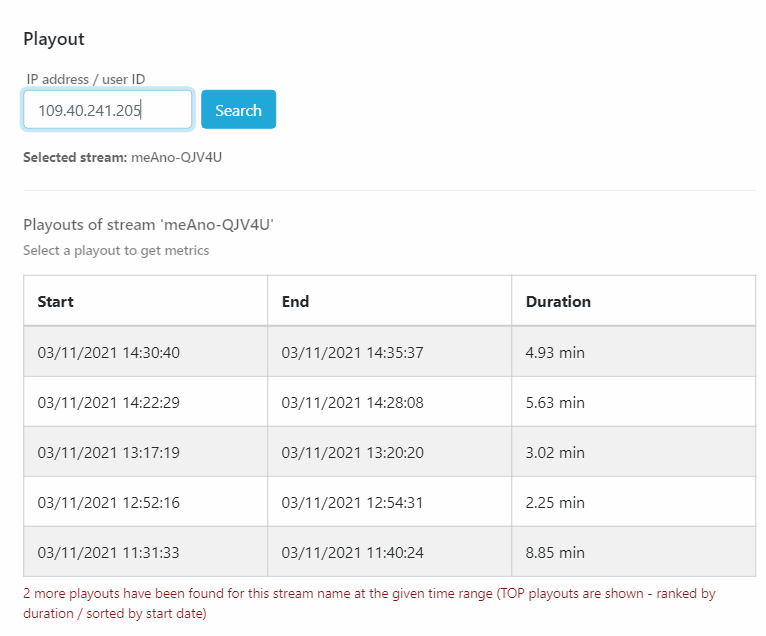
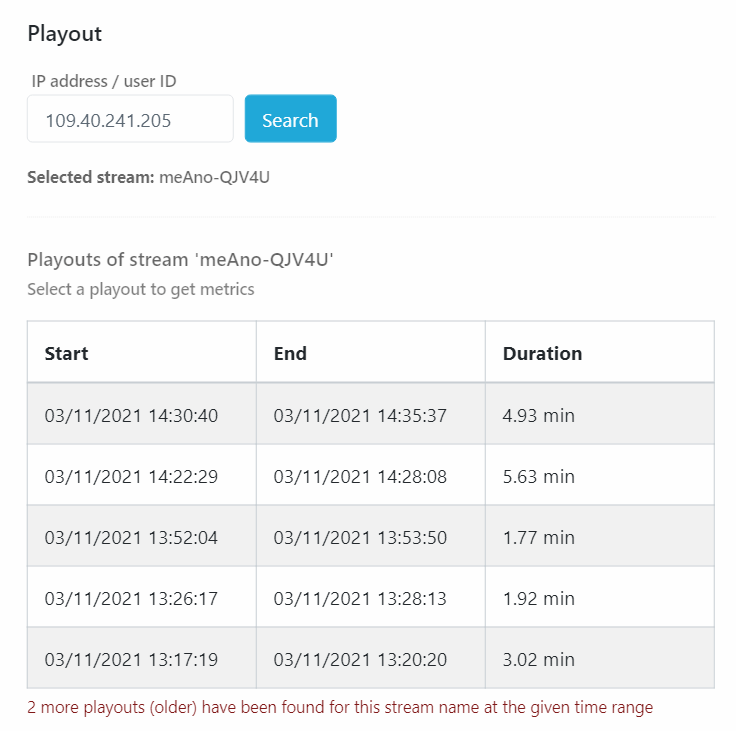
fixed typos and added pictures

diff --git a/docs/cloud/troubleshooting.md b/docs/cloud/troubleshooting.md
@@ -22,13 +22,15 @@ The time picker declares the time period in which you will query for available m
 
 ### Copy URL Button
 
-The Copy URL button copies the exact options regarding the affected playout and ingest that you are currently want to investigate from the URL. Pasting the information into a support ticket helps to synchronize our support team with your issue and accelerates the solution process.    
+The Copy URL button copies the exact options regarding the affected playout and ingest that you are currently want to investigate from the URL. Pasting the information into a support ticket helps to synchronize our support team with your issue and accelerates the solution process.
+
+![Screenshot](/img/cloud/analytics/troubleshooting/copy_URL.png)
 
 ### Playouts
 
-After selecting a specific time period you are asked to enter an IP address or an user ID to access playout statistics about all streams that this user retrieved. You will then be able to select one out of the 5 newest playouts based on their start date. To view more than these 5 results you need to adjust the time range accordingly.
+After selecting a specific time period you are asked to enter an IP address or an user ID to access playout statistics about all streams that this user retrieved. You will then be able to select one out of the 5 newest playouts based on their start date. To view more than these 5 results you need to adjust the time range accordingly. We also implemented support for current running playouts.
 
-> **Note**, that shown playouts with no information are due to no enabled metrics option, which are based on the player metrics. We also implemented support for current running playouts. 
+> **Note**, only playouts that have metric option enabled are visible, which are based on the player metrics.  
     
    - Search by IP
    The IP address which requested access to a stream.
@@ -36,27 +38,29 @@ After selecting a specific time period you are asked to enter an IP address or a
    - Search by UserID
    The unique user ID of your customer. 
 
-> **Note**, to make this work with UIDs, you have to assign IDs to your users beforehand and also transmit that to the [player API](https://docs.nanocosmos.de/docs/nanoplayer/nanoplayer_api#nanoplayerid--codestringcode).
+> **Note**, to make this work with UIDs, you have to assign IDs to your users beforehand and also transmit that to the [player API](https://docs.nanocosmos.de/docs/nanoplayer/nanoplayer_player_metrics/#how-to-use).
 
 ![Screenshot](/img/cloud/analytics/troubleshooting/playouts.png)
     
 #### Navigation
 
-If there are statistics about the valid IP / UID within the stated time period, you will have a selection of streams that this user entered. Select the desired streamname and you will see a list of all playouts that user had in combination with the selected streamname. After you selected a playout you can access meta data information and also more detailed statistics below. Define the time interval with the slider to zoom into streams with a longer duration or to focus on specific parts of the stream. At this point you can synchronize with the corresponding ingest data of the playout on the right side.
-
-> **Note**, if an user reloads the page of a stream, it will be accounted as a new playout. 
-
-> **Note**, If you set the visible timerange to under 5 minutes, you switch from data aggregation mode into raw mode. Therefore you will get exact datapoints at the given time. 
+If there are statistics about the valid IP / UID within the stated time period, you will have a selection of streams that this user entered. Select the desired stream name and you will see a list of all playouts that user had in combination with the selected stream name. After you selected a playout you can access meta data information and also more detailed statistics below. Define the time interval with the slider to zoom into streams with a longer duration or to focus on specific parts of the stream. At this point you can synchronize with the corresponding ingest data of the playout on the right side.
 
 ![Screenshot](/img/cloud/analytics/troubleshooting/metadata.png)
 
-   - Statistics - Bitrate [kBits/s]
+> **Note**, if an user reloads the page of a stream, it will be accounted as a new playout. 
+
+> **Note**, If you set the visible time range to under 5 minutes, you switch from data aggregation mode into raw data mode. Therefore you will get exact datapoints at the given time. 
+
+![Screenshot](/img/cloud/analytics/troubleshooting/raw_mode.png)
+
+   - Statistics - Bitrate [kBits/s]:
    The corresponding retrieved bitrate on client side at a specific time. Purple lines symbolize event calls which are also listed under the Events table.
 
-   - Statistics - Latency [s]
+   - Statistics - Latency [s]:
    The latency from ingest to playout. Purple lines symbolize event calls which are also listed under the Events table.
 
-   - Statistics - Buffering Totaltime Ratio [%]
+   - Statistics - Buffering Totaltime Ratio [%]:
    The ratio between buffer and playback duration. 
    
    > **Note**, a ratio of 0% means no buffering and a ratio of 100% means no playback was possible.
@@ -69,13 +73,13 @@ If there are statistics about the valid IP / UID within the stated time period, 
 
 ### Ingests
 
-Whether you have synchronized a corresponding playout or entered a valid, in the time period available streamname yourself, you will have access to ingest specific data, depending on the used protocol WebRTC or RTMP. You can see which protocol was used after entering a streamname right below the selection. We also implemented support for current running ingests.
+Whether you have synchronized a corresponding playout or entered a valid, in the time period available stream name yourself, you will have access to ingest specific data, depending on the used protocol WebRTC or RTMP. You can see which protocol was used after entering a stream name right below the selection. We also implemented support for current running ingests. Ingests with metric option disabled are also shown, but will not contain data.
 
 ![Screenshot](/img/cloud/analytics/troubleshooting/ingests.png)
 
 #### Navigation
 
-After the overview of the meta data you can define a specific time period within the stream duration. Therefore you can use the slider or type the time in manually, in which case the time gets rounded respective to the selected time interval to insure correct data aggregation. The results you get for the ingest streamname are also sorted by newest first as for the playouts. Selecting a time period auto-refreshes the statistics below.
+After the overview of the meta data you can define a specific time period within the stream duration. Therefore you can use the slider or type the time in manually, in which case the time gets rounded respective to the selected time interval to insure correct data aggregation. The results you get for the ingest stream name are also sorted by newest first as for the playouts. Selecting a time period auto-refreshes the statistics below.
 
 ![Screenshot](/img/cloud/analytics/troubleshooting/statistics_ingest_interval.png)
 
@@ -83,26 +87,26 @@ After the overview of the meta data you can define a specific time period within
 
 Ingests using RTMP only provide metrics about video and audio bitrates.
 
-   - Statistics - Video bitrate [kBits/s]
+   - Statistics - Video bitrate [kBits/s]:
    The uploaded bitrate of video data.
 
-   - Statistics - Audio bitrate [kBits/s]
+   - Statistics - Audio bitrate [kBits/s]:
    The uploaded bitrate of audio data.
 
 #### WebRTC Ingests
 
 Ingests using Web Real Time Communication are providing additional insights to framerate, encoding and package delivery.
 
-   - Statistics - Video bitrate [kBits/s]
+   - Statistics - Video bitrate [kBits/s]:
    The uploaded bitrate of video data.
 
-   - Statistics - Audio bitrate [kBits/s]
+   - Statistics - Audio bitrate [kBits/s]:
    The uploaded bitrate of audio data.
 
-   - Statistics - Framerate [1/s]
+   - Statistics - Framerate [1/s]:
    Amount of uploaded video frames.
 
-   - Statistics - Encode time - total time - ratio [%]
+   - Statistics - Encode time - total time - ratio [%]:
    The Ratio between the time needed to encode video data and the actual video play time. 
    
    > **Note**, that a high ratio is an indicator for high encoder workload, which can lead to ingest problems. 
